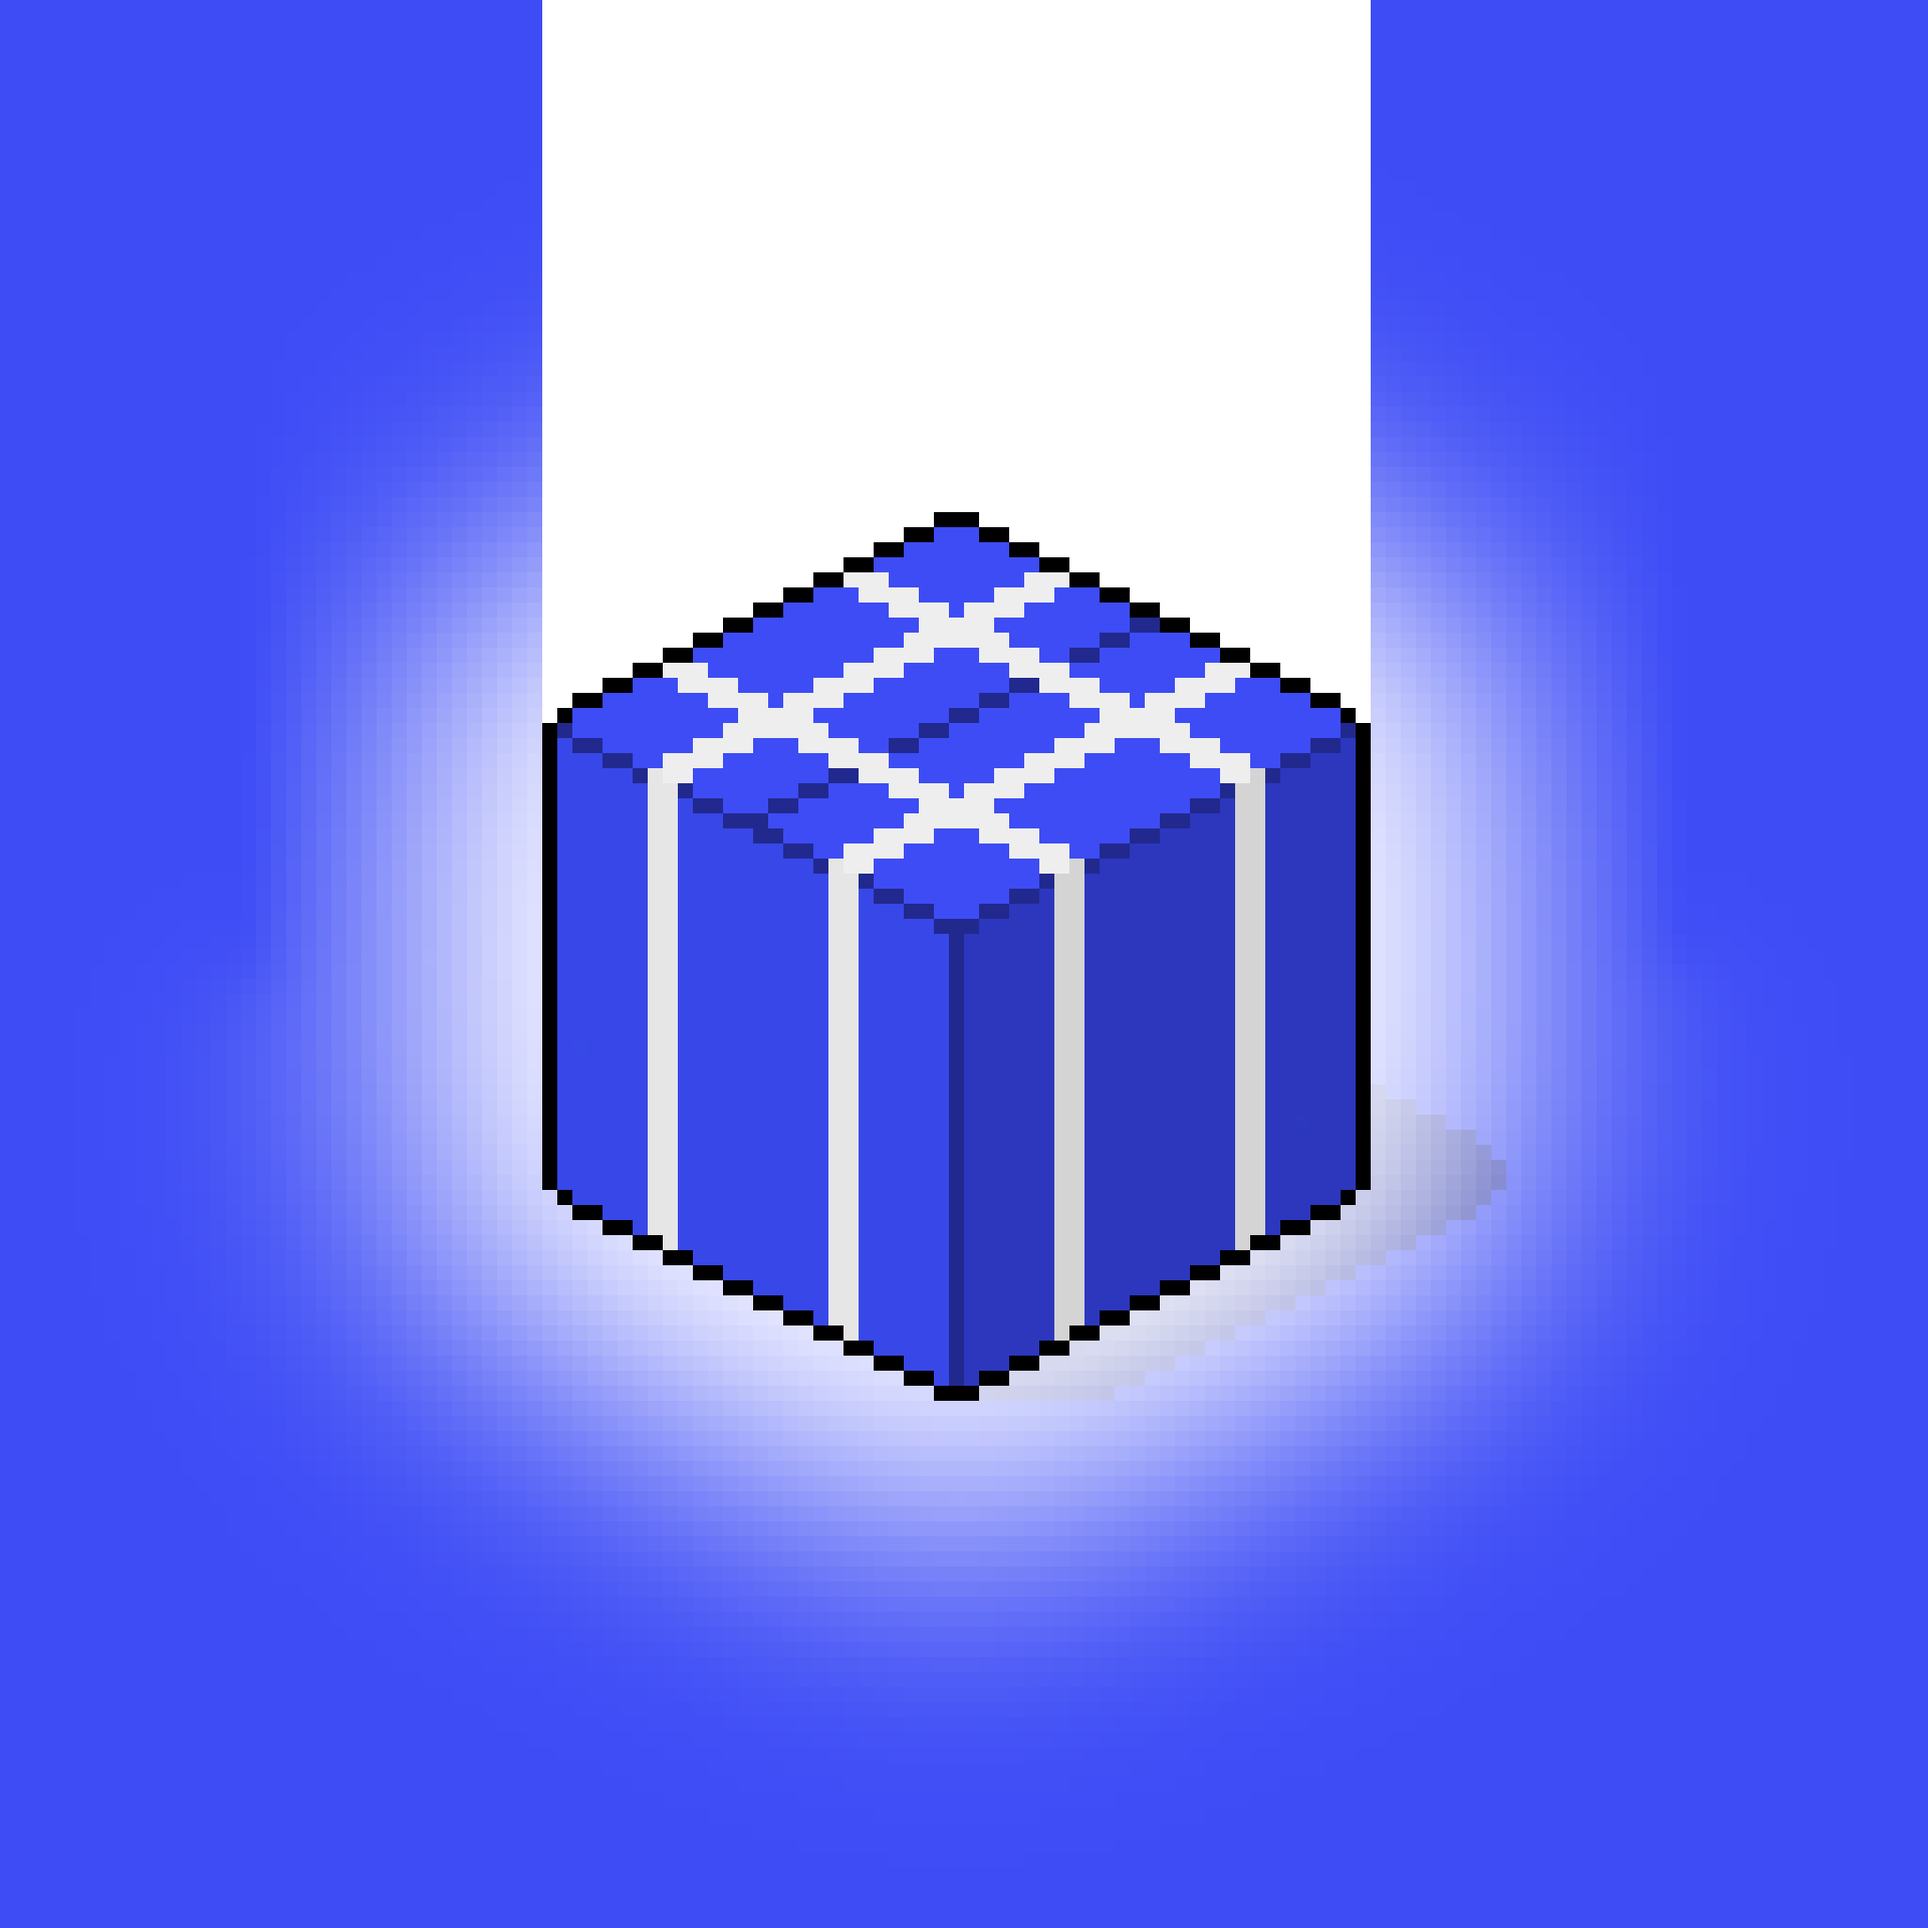
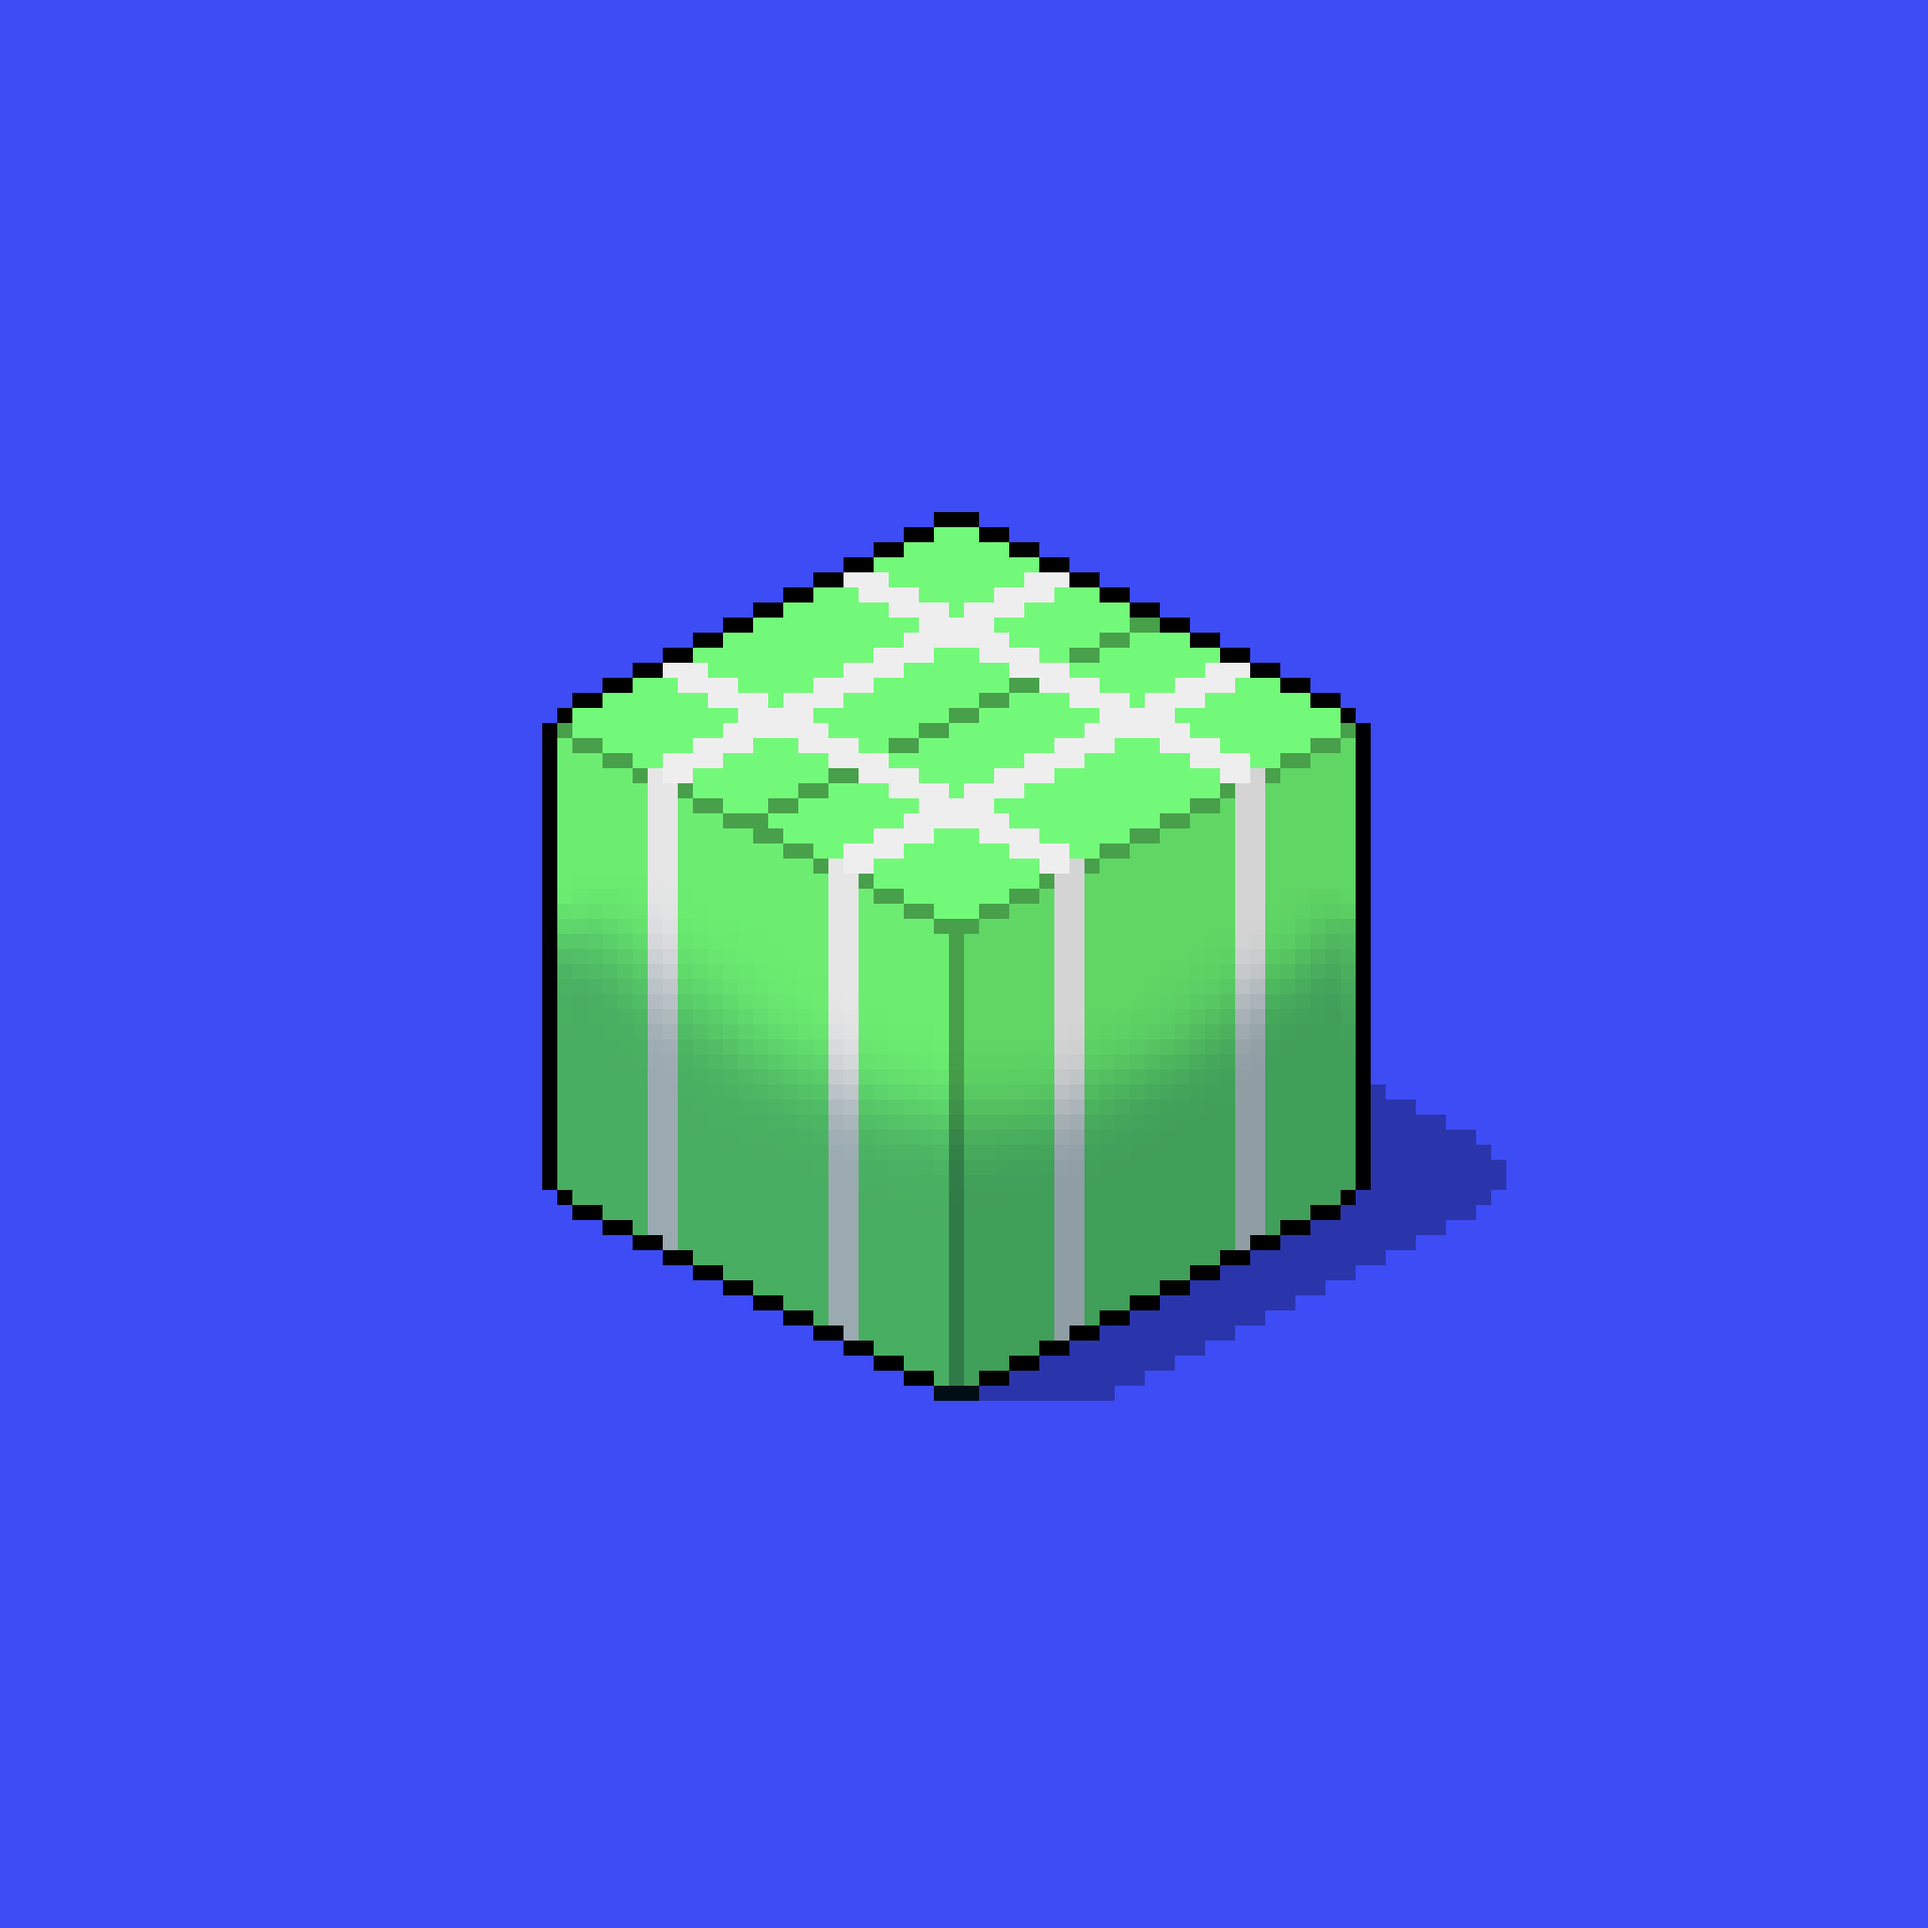
cleanup

diff --git a/main.go b/main.go
@@ -50,13 +50,15 @@ func main() {
 	boxes.CreateCustom([]string{
 		boxes.BACKGROUND_BG_BRIGHT_BLUE,
 		boxes.BACKGROUND_LINES,
-		boxes.COLOR_BRIGHT_BLUE,
+		boxes.COLOR_BRIGHT_GREEN,
 		boxes.BOX_LINES,
 		boxes.STRAP_DOUBLE_STRAPPED_RIGHT,
 		boxes.STRAP_DOUBLE_STRAPPED_LEFT,
-		boxes.STATE_BEACON,
+		boxes.STATE_WET,
+		//boxes.STATE_BEACON,
 	})
 
+	createGIF(10)
 	/* createGIF(10)
 
 	box := boxes.Box{
@@ -71,8 +73,6 @@ func main() {
 
 	mf.createManyUnique(100)
 	fmt.Println(mf.duration)
-	for {
-	}
 }
 
 func createTest() {
@@ -122,9 +122,7 @@ func createGIF(framesNum int) {
 			*/
 			frames = append(frames, tmpimg.(*image.Paletted))
 			fmt.Println(time.Since(t1))
-
 		}()
-
 	}
 
 	delays := make([]int, framesNum)
